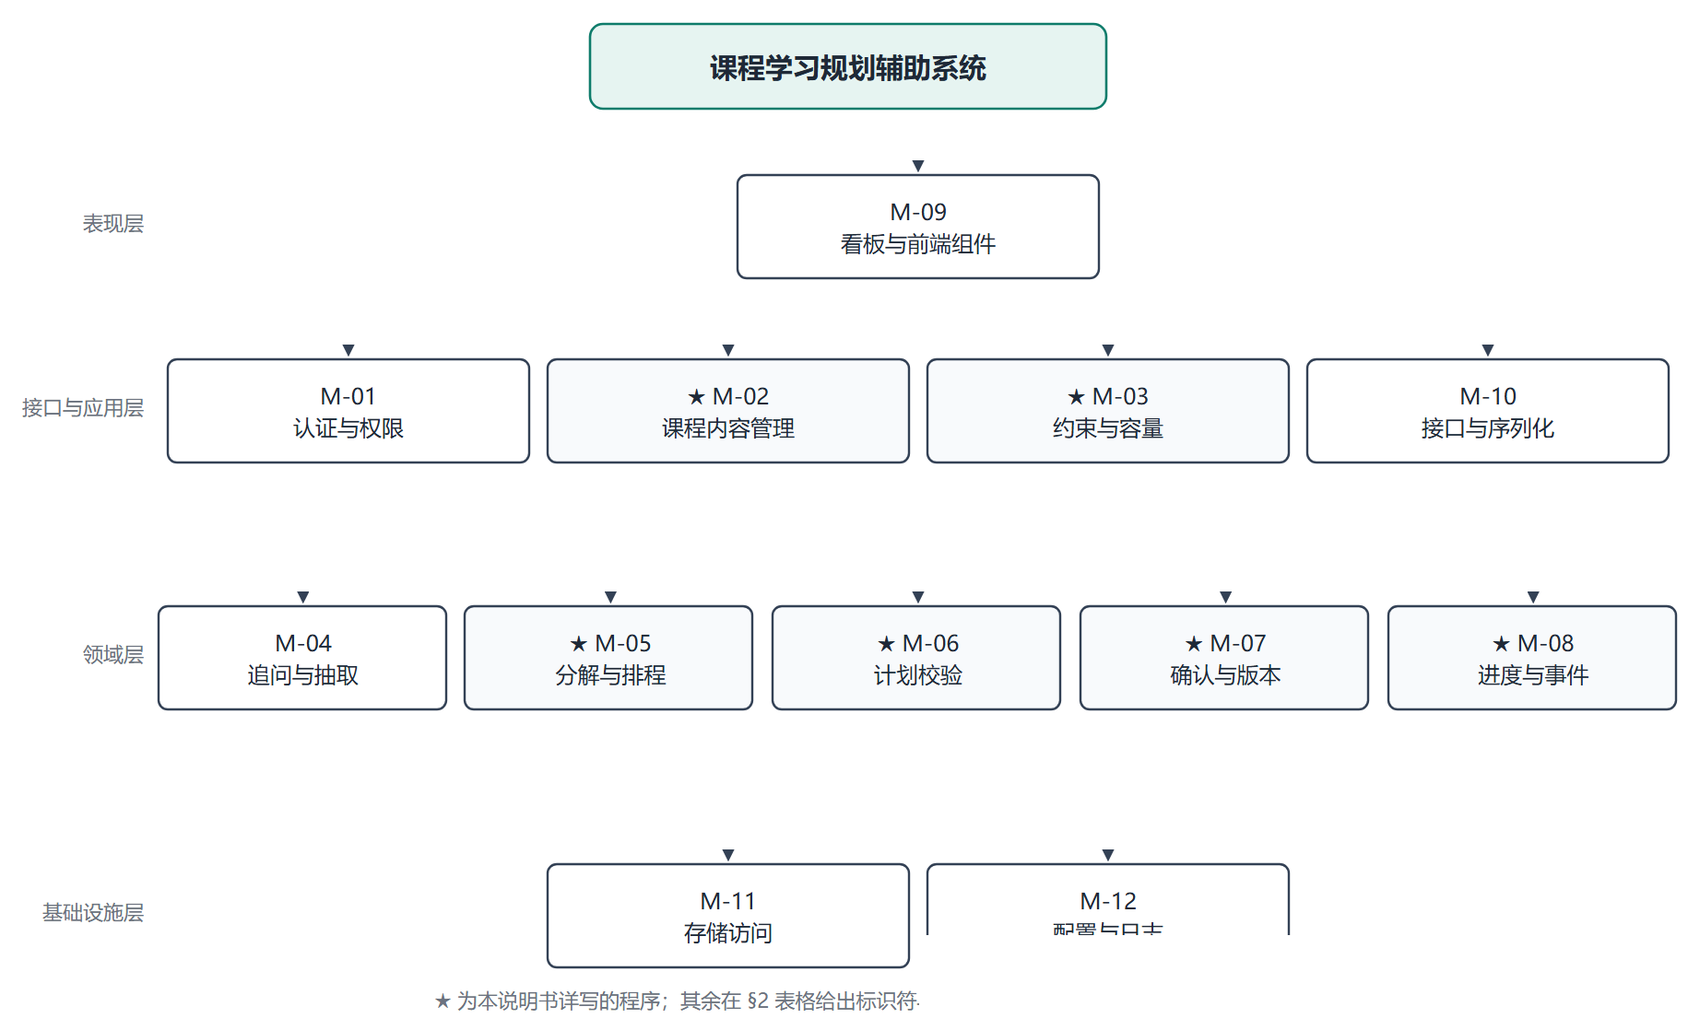
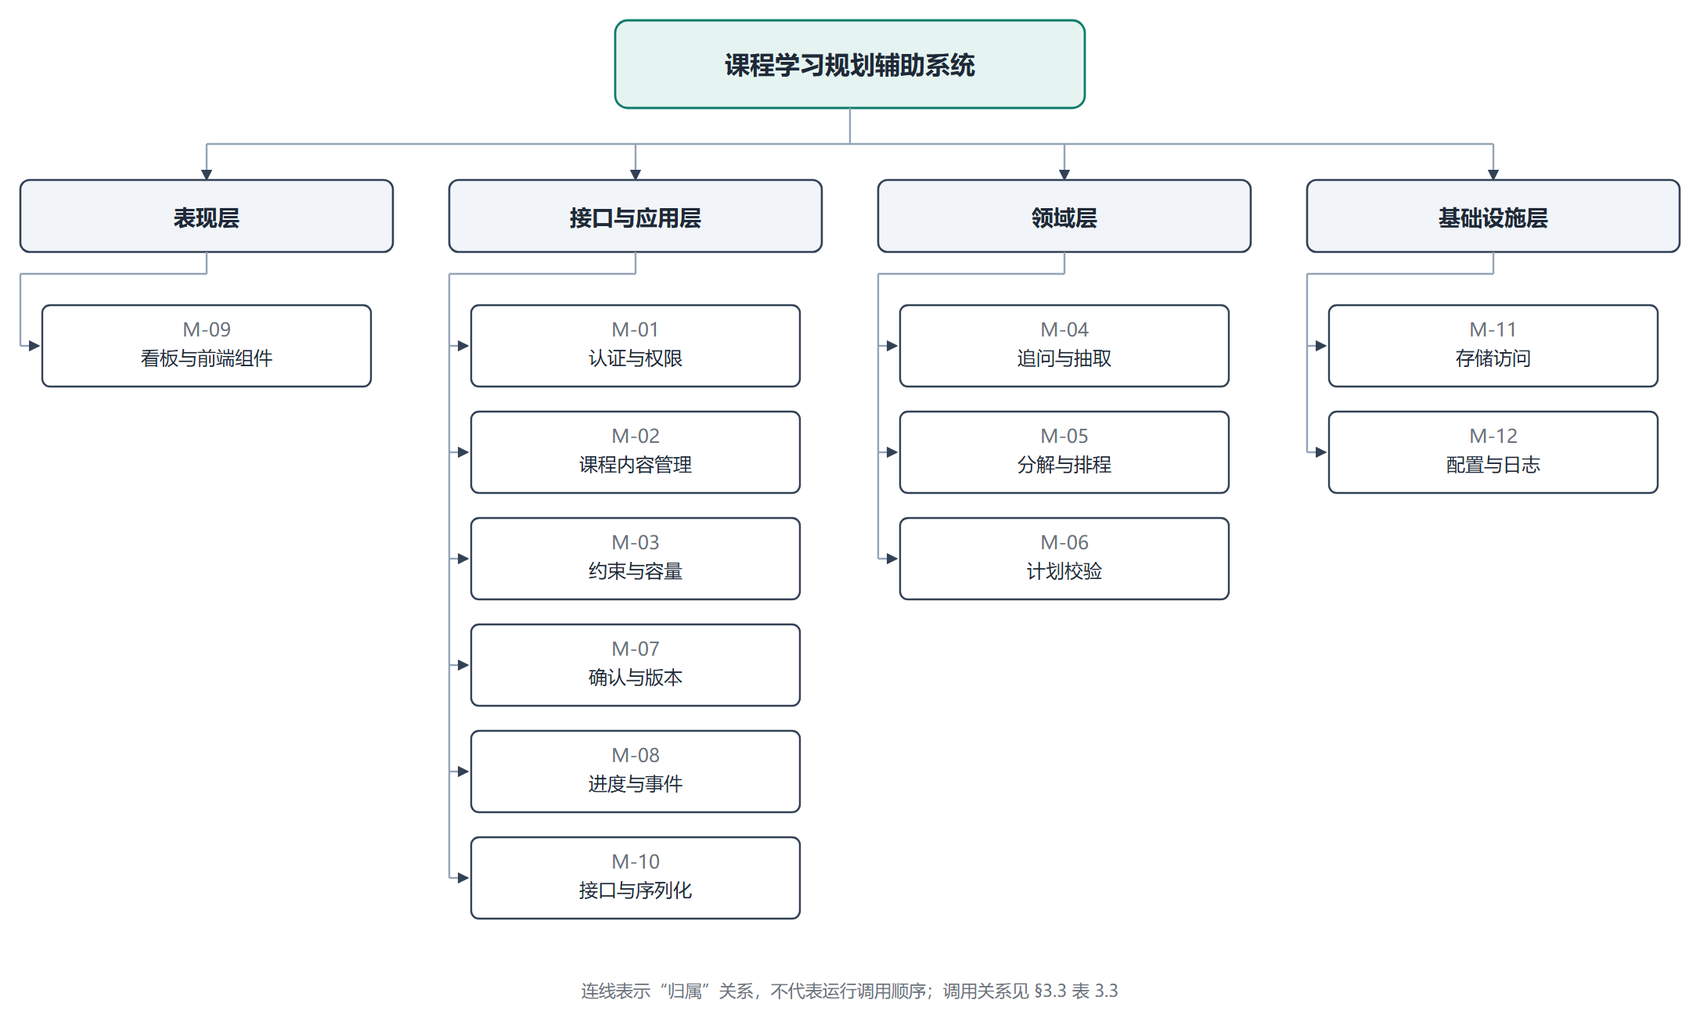
fix(D06): 重画图 2-1 层次结构图（按 D04 表 2.3 归层、兄弟模块用归属括号、修 M-12 截断）

diff --git a/scripts/build_d06_structure.py b/scripts/build_d06_structure.py
@@ -1,0 +1,126 @@
+"""重画图 2-1：程序系统层次结构图（组织图式，按层分列，模块竖排）。
+
+层级与归属严格按 D04 表 2.3：表现层 M-09；接口与应用层 M-01/02/03/07/08/10；
+领域层 M-04/05/06；基础设施层 M-11/12。
+"""
+import sys
+from pathlib import Path
+
+sys.path.insert(0, str(Path(__file__).resolve().parent))
+import build_figures as bf  # noqa: E402
+
+ROOT = Path(r"D:\Gitproject\CoursePlan")
+FIG = ROOT / "docs" / "04_实现" / "figures"
+SRC = FIG / "src"
+TMP = ROOT / ".tmp_work"
+
+INK, MUTED, STROKE, LINE = "#1f2937", "#6b7280", "#334155", "#94a3b8"
+TEAL, TEAL_SOFT = bf.TEAL, bf.TEAL_SOFT
+
+COL_W = 250          # 每列宽
+GAP_X = 24
+MARGIN = 24
+ROOT_H, LAYER_H, MOD_H = 56, 46, 52
+GAP_ROOT_LAYER = 46
+GAP_LAYER_MOD = 34
+GAP_MOD = 16
+
+LAYERS = [
+    ("表现层", [("M-09", "看板与前端组件")]),
+    ("接口与应用层", [("M-01", "认证与权限"), ("M-02", "课程内容管理"), ("M-03", "约束与容量"),
+                  ("M-07", "确认与版本"), ("M-08", "进度与事件"), ("M-10", "接口与序列化")]),
+    ("领域层", [("M-04", "追问与抽取"), ("M-05", "分解与排程"), ("M-06", "计划校验")]),
+    ("基础设施层", [("M-11", "存储访问"), ("M-12", "配置与日志")]),
+]
+
+
+def build():
+    n = len(LAYERS)
+    W = MARGIN * 2 + n * COL_W + (n - 1) * GAP_X
+    max_mods = max(len(m) for _, m in LAYERS)
+    root_y = 20
+    layer_y = root_y + ROOT_H + GAP_ROOT_LAYER
+    mod_y0 = layer_y + LAYER_H + GAP_LAYER_MOD
+    H = mod_y0 + max_mods * (MOD_H + GAP_MOD) + 60
+
+    p = ['<svg xmlns="http://www.w3.org/2000/svg" width="%d" height="%d" viewBox="0 0 %d %d">' % (W, H, W, H),
+         '<rect width="%d" height="%d" fill="#ffffff"/>' % (W, H),
+         '<defs><marker id="a" viewBox="0 0 10 10" refX="9" refY="5" markerWidth="6" '
+         'markerHeight="6" orient="auto-start-reverse"><path d="M 0 0 L 10 5 L 0 10 z" fill="%s"/></marker></defs>'
+         % STROKE]
+
+    def t(x, y, s, size=13, fill=INK, anchor="middle", bold=False):
+        s = s.replace("&", "&amp;").replace("<", "&lt;").replace(">", "&gt;")
+        p.append('<text x="%.1f" y="%.1f" font-family="Microsoft YaHei, SimHei, sans-serif" '
+                 'font-size="%d" fill="%s" text-anchor="%s"%s>%s</text>'
+                 % (x, y, size, fill, anchor, ' font-weight="bold"' if bold else "", s))
+
+    def line(x1, y1, x2, y2, arrow=False):
+        p.append('<path d="M %.1f %.1f L %.1f %.1f" fill="none" stroke="%s" stroke-width="1.2"%s/>'
+                 % (x1, y1, x2, y2, LINE, ' marker-end="url(#a)"' if arrow else ""))
+
+    # 根
+    root_w = 300
+    root_x = (W - root_w) / 2
+    p.append('<rect x="%.1f" y="%d" width="%d" height="%d" rx="8" fill="%s" stroke="%s" stroke-width="1.4"/>'
+             % (root_x, root_y, root_w, ROOT_H, TEAL_SOFT, TEAL))
+    t(W / 2, root_y + ROOT_H / 2 + 6, "课程学习规划辅助系统", 16, INK, bold=True)
+
+    # 层列
+    centers = []
+    for i, (layer, mods) in enumerate(LAYERS):
+        cx = MARGIN + i * (COL_W + GAP_X) + COL_W / 2
+        centers.append(cx)
+        p.append('<rect x="%.1f" y="%d" width="%d" height="%d" rx="6" fill="%s" stroke="%s" stroke-width="1.3"/>'
+                 % (cx - COL_W / 2 + 6, layer_y, COL_W - 12, LAYER_H, "#f1f5f9", STROKE))
+        t(cx, layer_y + LAYER_H / 2 + 6, layer, 14, INK, bold=True)
+
+    # 根到各层：先竖直，再横向母线，再竖直下到层框
+    bus_y = root_y + ROOT_H + GAP_ROOT_LAYER / 2
+    line(W / 2, root_y + ROOT_H, W / 2, bus_y)
+    line(centers[0], bus_y, centers[-1], bus_y)
+    for cx in centers:
+        line(cx, bus_y, cx, layer_y, arrow=True)
+
+    # 层到模块：用左侧“归属括号”，模块之间不画箭头（它们是兄弟，不是链）
+    for i, (layer, mods) in enumerate(LAYERS):
+        cx = centers[i]
+        box_x = cx - COL_W / 2 + 20
+        bracket_x = box_x - 14
+        stubs = []
+        for k, (mid, name) in enumerate(mods):
+            yy = mod_y0 + k * (MOD_H + GAP_MOD)
+            p.append('<rect x="%.1f" y="%d" width="%d" height="%d" rx="5" fill="#ffffff" stroke="%s" stroke-width="1.2"/>'
+                     % (cx - COL_W / 2 + 20, yy, COL_W - 40, MOD_H, STROKE))
+            t(cx, yy + 20, mid, 12, MUTED)
+            t(cx, yy + 38, name, 12, INK)
+            stubs.append(yy + MOD_H / 2)
+        if not mods:
+            continue
+        # 括号：层框底部 → 下滑到最末模块中心
+        line(cx, layer_y + LAYER_H, cx, layer_y + LAYER_H + 14)
+        line(bracket_x, layer_y + LAYER_H + 14, cx, layer_y + LAYER_H + 14)
+        line(bracket_x, layer_y + LAYER_H + 14, bracket_x, stubs[-1])
+        for sy in stubs:
+            line(bracket_x, sy, box_x - 2, sy, arrow=True)
+
+    t(W / 2, H - 26, "连线表示“归属”关系，不代表运行调用顺序；调用关系见 §3.3 表 3.3", 11, MUTED)
+    return "\n".join(p + ["</svg>"]) + "\n"
+
+
+def main():
+    SRC.mkdir(parents=True, exist_ok=True)
+    TMP.mkdir(parents=True, exist_ok=True)
+    svg = build()
+    name = "fig-2-1-structure"
+    (SRC / (name + ".svg")).write_text(svg, encoding="utf-8")
+    w = int(svg.split('width="')[1].split('"')[0])
+    h = int(svg.split('height="')[1].split('"')[0])
+    raw = TMP / (name + ".png")
+    bf.shoot(bf.html_for_svg(svg, (w, h)), str(raw), (w, h))
+    size, clipped = bf.trim_and_save(raw, str(FIG / (name + ".png")))
+    print("%-22s %s%s" % (name, size, "  [可能被裁切]" if clipped else ""))
+
+
+if __name__ == "__main__":
+    main()
